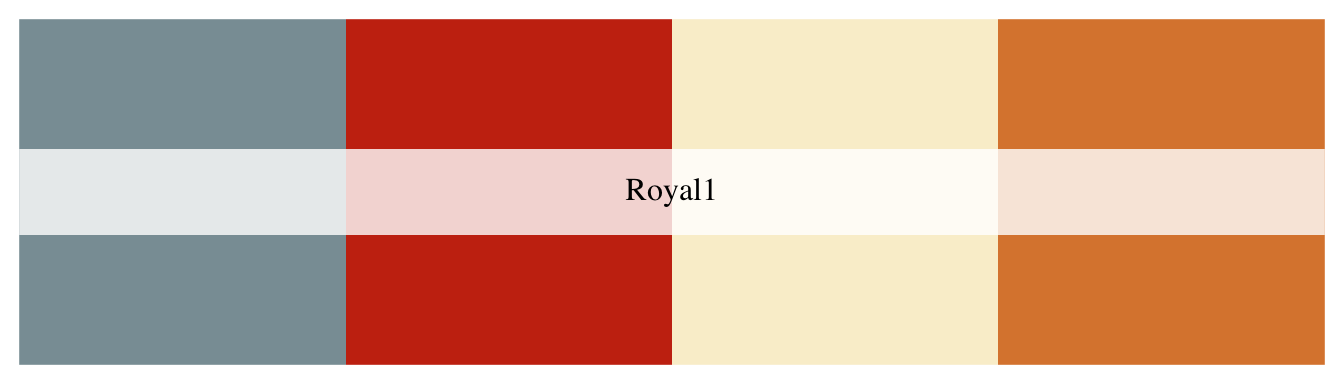
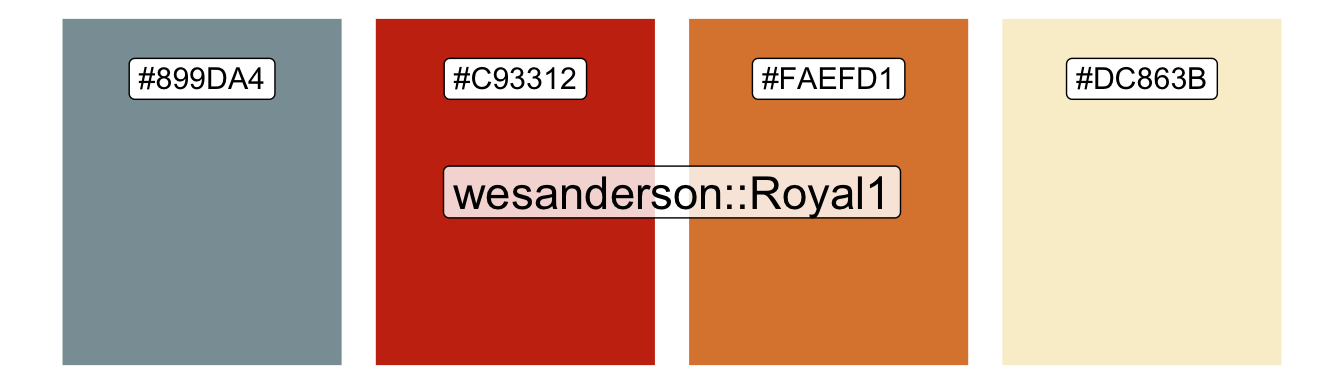
Use paletteer in Monkeys

diff --git a/_site/project/monkeys/index.html b/_site/project/monkeys/index.html
@@ -5,7 +5,7 @@
 <meta name="generator" content="quarto-1.3.196">
 <meta name="viewport" content="width=device-width, initial-scale=1.0, user-scalable=yes">
 <meta name="author" content="Carl Goodwin">
-<meta name="dcterms.date" content="2023-02-22">
+<meta name="dcterms.date" content="2023-02-24">
 <meta name="description" content="Quantile regression, property sales and anything could happen eventually">
 <title>Quantum Jitter - An Infinite Number of Monkeys</title>
 <style>
@@ -239,14 +239,14 @@ div.csl-indent {
     <div>
     <div class="quarto-title-meta-heading">Published</div>
     <div class="quarto-title-meta-contents">
-      <p class="date">February 22, 2023</p>
+      <p class="date">February 24, 2023</p>
     </div>
   </div>
   
     <div>
     <div class="quarto-title-meta-heading">Modified</div>
     <div class="quarto-title-meta-contents">
-      <p class="date-modified">February 23, 2023</p>
+      <p class="date-modified">February 24, 2023</p>
     </div>
   </div>
     
@@ -262,14 +262,16 @@ div.csl-indent {
 <li><p><a href="../../project/bands">Bootstraps &amp; Bandings</a> and inferring whether property bands are as representative of property values today as they were three decades ago.</p></li>
 </ul>
 <div class="cell">
-<div class="sourceCode" id="cb1"><pre class="downlit sourceCode r code-with-copy"><code class="sourceCode R"><span><span class="kw"><a href="https://rdrr.io/r/base/library.html">library</a></span><span class="op">(</span><span class="va"><a href="https://conflicted.r-lib.org/">conflicted</a></span><span class="op">)</span></span>
+<div class="sourceCode" id="cb1"><pre class="downlit sourceCode r code-with-copy"><code class="sourceCode R"><span><span class="fu"><a href="https://rdrr.io/r/base/options.html">options</a></span><span class="op">(</span>xts.warn_dplyr_breaks_lag <span class="op">=</span> <span class="cn">FALSE</span><span class="op">)</span></span>
+<span></span>
+<span><span class="kw"><a href="https://rdrr.io/r/base/library.html">library</a></span><span class="op">(</span><span class="va"><a href="https://conflicted.r-lib.org/">conflicted</a></span><span class="op">)</span></span>
 <span><span class="kw"><a href="https://rdrr.io/r/base/library.html">library</a></span><span class="op">(</span><span class="va"><a href="https://tidyverse.tidyverse.org">tidyverse</a></span><span class="op">)</span></span>
 <span><span class="fu"><a href="https://conflicted.r-lib.org/reference/conflict_prefer.html">conflict_prefer_all</a></span><span class="op">(</span><span class="st">"dplyr"</span>, quiet <span class="op">=</span> <span class="cn">TRUE</span><span class="op">)</span></span>
 <span><span class="fu"><a href="https://conflicted.r-lib.org/reference/conflicts_prefer.html">conflicts_prefer</a></span><span class="op">(</span><span class="fu">purrr</span><span class="fu">::</span><span class="va"><a href="https://purrr.tidyverse.org/reference/map.html">map</a></span><span class="op">)</span></span>
 <span><span class="kw"><a href="https://rdrr.io/r/base/library.html">library</a></span><span class="op">(</span><span class="va"><a href="https://scales.r-lib.org">scales</a></span><span class="op">)</span></span>
 <span><span class="kw"><a href="https://rdrr.io/r/base/library.html">library</a></span><span class="op">(</span><span class="va"><a href="https://github.com/tidyverse/glue">glue</a></span><span class="op">)</span></span>
 <span><span class="kw"><a href="https://rdrr.io/r/base/library.html">library</a></span><span class="op">(</span><span class="va">SPARQL</span><span class="op">)</span></span>
-<span><span class="kw"><a href="https://rdrr.io/r/base/library.html">library</a></span><span class="op">(</span><span class="va"><a href="https://github.com/karthik/wesanderson">wesanderson</a></span><span class="op">)</span></span>
+<span><span class="kw"><a href="https://rdrr.io/r/base/library.html">library</a></span><span class="op">(</span><span class="va"><a href="https://github.com/EmilHvitfeldt/paletteer">paletteer</a></span><span class="op">)</span></span>
 <span><span class="kw"><a href="https://rdrr.io/r/base/library.html">library</a></span><span class="op">(</span><span class="va"><a href="https://vctrs.r-lib.org/">vctrs</a></span><span class="op">)</span></span>
 <span><span class="kw"><a href="https://rdrr.io/r/base/library.html">library</a></span><span class="op">(</span><span class="va"><a href="https://tsibble.tidyverts.org">tsibble</a></span><span class="op">)</span></span>
 <span><span class="kw"><a href="https://rdrr.io/r/base/library.html">library</a></span><span class="op">(</span><span class="va"><a href="https://rvest.tidyverse.org/">rvest</a></span><span class="op">)</span></span>
@@ -285,7 +287,27 @@ div.csl-indent {
 <div class="cell">
 <div class="sourceCode" id="cb2"><pre class="downlit sourceCode r code-with-copy"><code class="sourceCode R"><span><span class="fu"><a href="https://ggplot2.tidyverse.org/reference/theme_get.html">theme_set</a></span><span class="op">(</span><span class="fu"><a href="https://ggplot2.tidyverse.org/reference/ggtheme.html">theme_bw</a></span><span class="op">(</span><span class="op">)</span><span class="op">)</span></span>
 <span></span>
-<span><span class="op">(</span><span class="va">cols</span> <span class="op">&lt;-</span> <span class="fu"><a href="https://rdrr.io/pkg/wesanderson/man/wes_palette.html">wes_palette</a></span><span class="op">(</span>name <span class="op">=</span> <span class="st">"Royal1"</span><span class="op">)</span><span class="op">)</span></span></code><button title="Copy to Clipboard" class="code-copy-button"><i class="bi"></i></button></pre></div>
+<span><span class="va">n</span> <span class="op">&lt;-</span> <span class="fl">4</span></span>
+<span><span class="va">palette</span> <span class="op">&lt;-</span> <span class="st">"wesanderson::Royal1"</span></span>
+<span></span>
+<span><span class="va">cols</span> <span class="op">&lt;-</span> <span class="fu"><a href="https://rdrr.io/pkg/paletteer/man/paletteer_d.html">paletteer_d</a></span><span class="op">(</span><span class="va">palette</span>, n <span class="op">=</span> <span class="va">n</span><span class="op">)</span></span>
+<span></span>
+<span><span class="fu"><a href="https://tibble.tidyverse.org/reference/tibble.html">tibble</a></span><span class="op">(</span>x <span class="op">=</span> <span class="fl">1</span><span class="op">:</span><span class="va">n</span>, y <span class="op">=</span> <span class="fl">1</span><span class="op">)</span> <span class="op">|&gt;</span></span>
+<span>  <span class="fu"><a href="https://ggplot2.tidyverse.org/reference/ggplot.html">ggplot</a></span><span class="op">(</span><span class="fu"><a href="https://ggplot2.tidyverse.org/reference/aes.html">aes</a></span><span class="op">(</span><span class="va">x</span>, <span class="va">y</span>, fill <span class="op">=</span> <span class="va">cols</span><span class="op">)</span><span class="op">)</span> <span class="op">+</span></span>
+<span>  <span class="fu"><a href="https://ggplot2.tidyverse.org/reference/geom_bar.html">geom_col</a></span><span class="op">(</span>colour <span class="op">=</span> <span class="st">"white"</span><span class="op">)</span> <span class="op">+</span></span>
+<span>  <span class="fu"><a href="https://ggplot2.tidyverse.org/reference/geom_text.html">geom_label</a></span><span class="op">(</span><span class="fu"><a href="https://ggplot2.tidyverse.org/reference/aes.html">aes</a></span><span class="op">(</span>label <span class="op">=</span> <span class="va">cols</span> <span class="op">|&gt;</span> <span class="fu"><a href="https://stringr.tidyverse.org/reference/str_remove.html">str_remove</a></span><span class="op">(</span><span class="st">"FF$"</span><span class="op">)</span><span class="op">)</span>, </span>
+<span>             size <span class="op">=</span> <span class="fl">4</span>, vjust <span class="op">=</span> <span class="fl">2</span>, fill <span class="op">=</span> <span class="st">"white"</span><span class="op">)</span> <span class="op">+</span></span>
+<span>  <span class="fu"><a href="https://ggplot2.tidyverse.org/reference/annotate.html">annotate</a></span><span class="op">(</span></span>
+<span>    <span class="st">"label"</span>,</span>
+<span>    x <span class="op">=</span> <span class="op">(</span><span class="va">n</span> <span class="op">+</span> <span class="fl">1</span><span class="op">)</span> <span class="op">/</span> <span class="fl">2</span>, y <span class="op">=</span> <span class="fl">0.5</span>,</span>
+<span>    label <span class="op">=</span> <span class="va">palette</span>,</span>
+<span>    fill <span class="op">=</span> <span class="st">"white"</span>,</span>
+<span>    alpha <span class="op">=</span> <span class="fl">0.8</span>,</span>
+<span>    size <span class="op">=</span> <span class="fl">6</span></span>
+<span>  <span class="op">)</span> <span class="op">+</span></span>
+<span>  <span class="fu"><a href="https://ggplot2.tidyverse.org/reference/scale_manual.html">scale_fill_manual</a></span><span class="op">(</span>values <span class="op">=</span> <span class="fu"><a href="https://rdrr.io/r/base/character.html">as.character</a></span><span class="op">(</span><span class="va">cols</span><span class="op">)</span><span class="op">)</span> <span class="op">+</span></span>
+<span>  <span class="fu"><a href="https://ggplot2.tidyverse.org/reference/ggtheme.html">theme_void</a></span><span class="op">(</span><span class="op">)</span> <span class="op">+</span></span>
+<span>  <span class="fu"><a href="https://ggplot2.tidyverse.org/reference/theme.html">theme</a></span><span class="op">(</span>legend.position <span class="op">=</span> <span class="st">"none"</span><span class="op">)</span></span></code><button title="Copy to Clipboard" class="code-copy-button"><i class="bi"></i></button></pre></div>
 <div class="cell-output-display">
 <p><img src="index_files/figure-html/theme-1.png" class="img-fluid" style="width:100.0%"></p>
 </div>
@@ -843,7 +865,7 @@ Quantile 0.95: Test statistic = 8e-04; p-value = 0.63 </code></pre>
 </tr>
 <tr class="even">
 <td style="text-align: left;">base</td>
-<td style="text-align: left;">c[5], library[15], list[1], mean[1], set.seed[1]</td>
+<td style="text-align: left;">as.character[1], c[5], library[15], list[1], mean[1], options[1], set.seed[1]</td>
 </tr>
 <tr class="odd">
 <td style="text-align: left;">broom</td>
@@ -867,7 +889,7 @@ Quantile 0.95: Test statistic = 8e-04; p-value = 0.63 </code></pre>
 </tr>
 <tr class="even">
 <td style="text-align: left;">ggplot2</td>
-<td style="text-align: left;">aes[7], annotate[6], element_text[2], facet_wrap[2], geom_boxplot[1], geom_line[4], geom_point[1], geom_ribbon[1], geom_smooth[2], geom_vline[3], ggplot[4], labs[3], theme[2], theme_bw[1], theme_set[1]</td>
+<td style="text-align: left;">aes[9], annotate[7], element_text[2], facet_wrap[2], geom_boxplot[1], geom_col[1], geom_label[1], geom_line[4], geom_point[1], geom_ribbon[1], geom_smooth[2], geom_vline[3], ggplot[5], labs[3], scale_fill_manual[1], theme[3], theme_bw[1], theme_set[1], theme_void[1]</td>
 </tr>
 <tr class="odd">
 <td style="text-align: left;">glue</td>
@@ -878,60 +900,60 @@ Quantile 0.95: Test statistic = 8e-04; p-value = 0.63 </code></pre>
 <td style="text-align: left;">as_date[6], dmy[2], month[2]</td>
 </tr>
 <tr class="odd">
+<td style="text-align: left;">paletteer</td>
+<td style="text-align: left;">paletteer_d[1]</td>
+</tr>
+<tr class="even">
 <td style="text-align: left;">purrr</td>
 <td style="text-align: left;">pluck[2], reduce[1]</td>
 </tr>
-<tr class="even">
+<tr class="odd">
 <td style="text-align: left;">quantreg</td>
 <td style="text-align: left;">rq[2]</td>
 </tr>
-<tr class="odd">
+<tr class="even">
 <td style="text-align: left;">readr</td>
 <td style="text-align: left;">parse_number[3]</td>
 </tr>
-<tr class="even">
+<tr class="odd">
 <td style="text-align: left;">rvest</td>
 <td style="text-align: left;">html_elements[2], html_table[1], html_text[1]</td>
 </tr>
-<tr class="odd">
+<tr class="even">
 <td style="text-align: left;">scales</td>
 <td style="text-align: left;">percent[1]</td>
 </tr>
-<tr class="even">
+<tr class="odd">
 <td style="text-align: left;">stats</td>
 <td style="text-align: left;">predict[2]</td>
 </tr>
-<tr class="odd">
+<tr class="even">
 <td style="text-align: left;">stringr</td>
-<td style="text-align: left;">str_detect[3], str_remove[2], str_starts[1]</td>
+<td style="text-align: left;">str_detect[3], str_remove[3], str_starts[1]</td>
+</tr>
+<tr class="odd">
+<td style="text-align: left;">tibble</td>
+<td style="text-align: left;">as_tibble[4], tibble[3]</td>
 </tr>
 <tr class="even">
-<td style="text-align: left;">tibble</td>
-<td style="text-align: left;">as_tibble[4], tibble[2]</td>
-</tr>
-<tr class="odd">
 <td style="text-align: left;">tidyr</td>
 <td style="text-align: left;">drop_na[2], fill[2], pivot_longer[2], pivot_wider[1], replace_na[1], separate_wider_delim[1]</td>
 </tr>
-<tr class="even">
+<tr class="odd">
 <td style="text-align: left;">tidyselect</td>
 <td style="text-align: left;">ends_with[3], starts_with[1]</td>
 </tr>
-<tr class="odd">
+<tr class="even">
 <td style="text-align: left;">tsibble</td>
 <td style="text-align: left;">scale_x_yearmonth[1], yearmonth[11]</td>
 </tr>
-<tr class="even">
+<tr class="odd">
 <td style="text-align: left;">usedthese</td>
 <td style="text-align: left;">used_here[1]</td>
 </tr>
-<tr class="odd">
+<tr class="even">
 <td style="text-align: left;">vctrs</td>
 <td style="text-align: left;">new_datetime[1]</td>
-</tr>
-<tr class="even">
-<td style="text-align: left;">wesanderson</td>
-<td style="text-align: left;">wes_palette[1]</td>
 </tr>
 <tr class="odd">
 <td style="text-align: left;">xml2</td>
